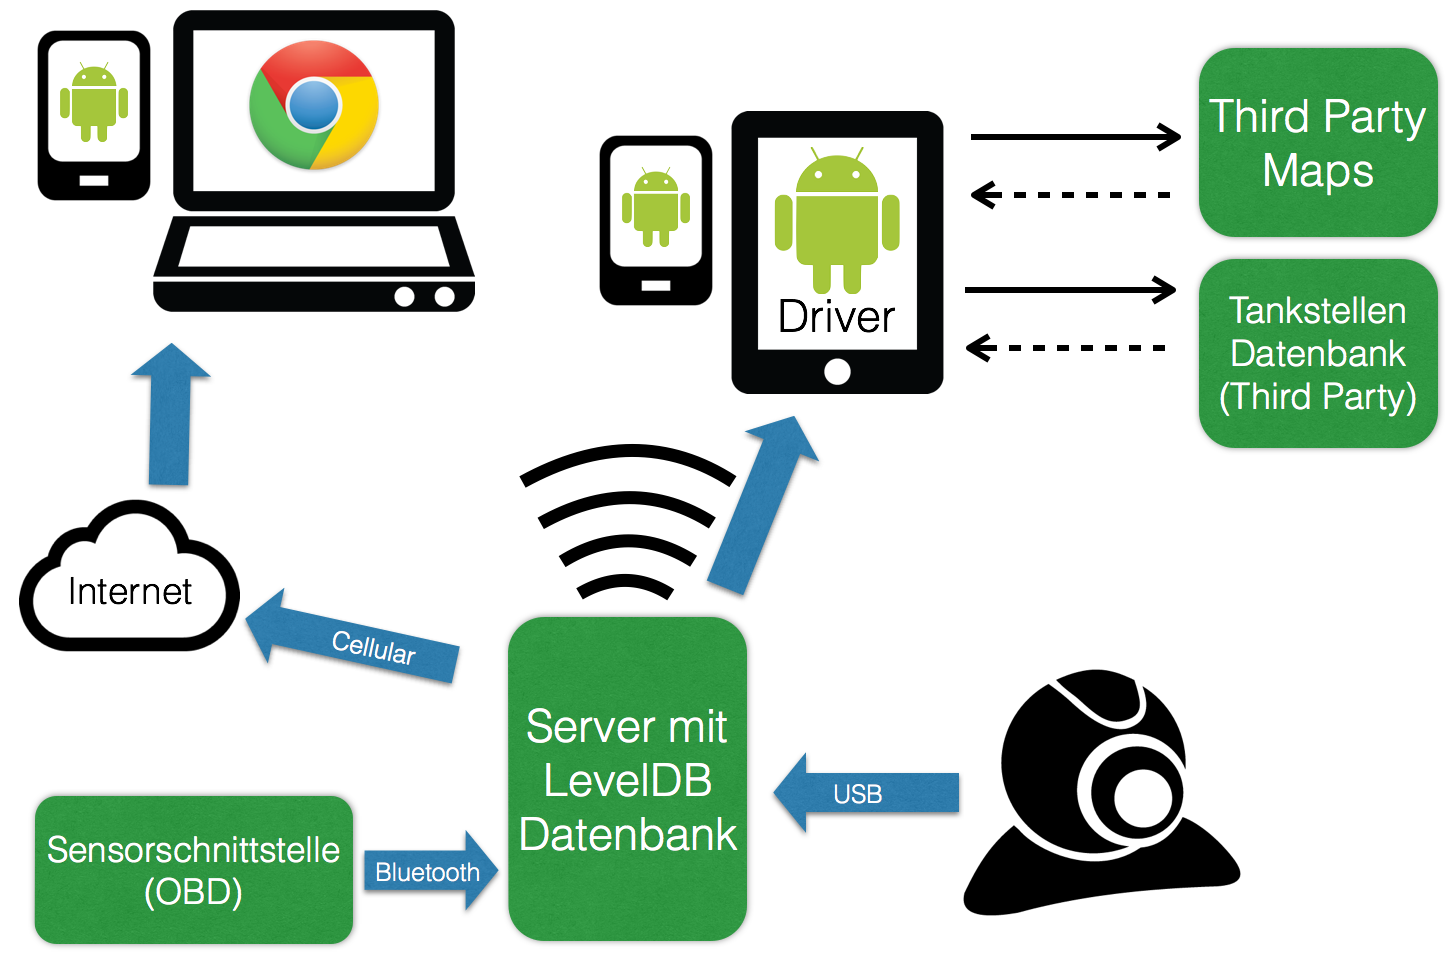
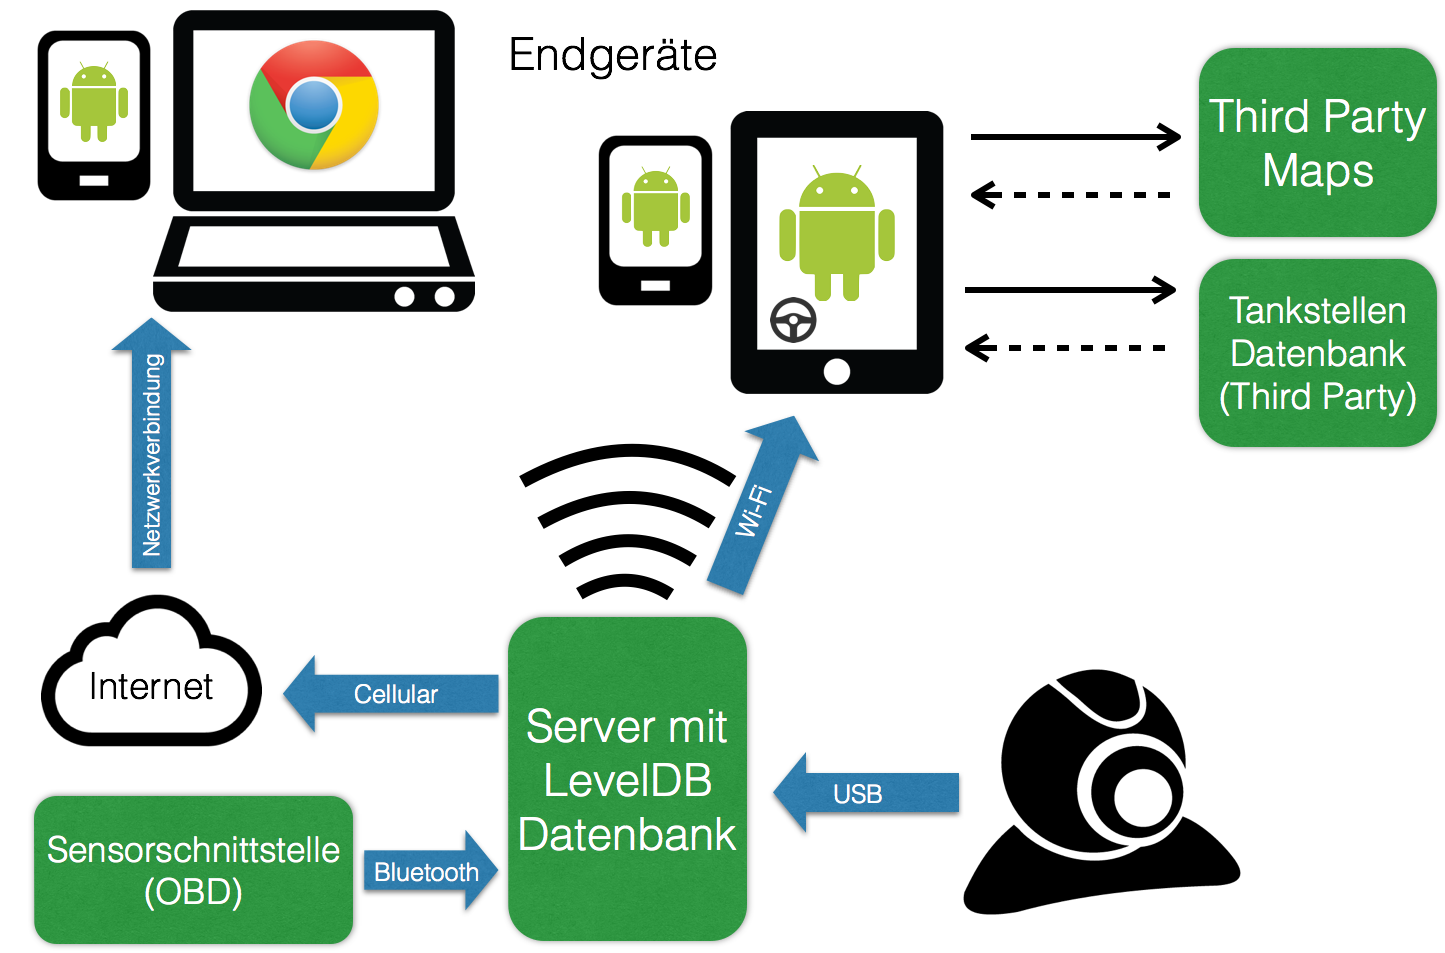
Systemmodell update

diff --git a/myDoc/ProduktEU.tex b/myDoc/ProduktEU.tex
@@ -122,7 +122,7 @@ Android Smartphone (min. 1 GHz und 1 GB RAM)
 \newpage
 \section{Systemarchitektur}
 
-Das System ist modular aufgebaut. Es gibt pro System genau einen Server. Endgeräte können eine Netzwerkverbindung mit dem Server herstellen. Dabei kann die Verbindung entweder direkt via Wi-Fi im Auto oder entfernt (~\ref{remote}) über das Internet hergestellt werden. (~\ref{firstcon}, ~\ref{connection}, ~\ref{driver1}, ~\ref{driver2}) Das soll in der Funktionalität keinen Unterschied machen. Diese Verbindung beruht auf WebRTC \footnote{http://www.webrtc.org} und soll den Datenkanal dieses Protokolls verwenden, um Sensordaten zu übertragen. Des Weiteren ist eine Rückfahrkamera per USB mit dem Server verbunden. Die Kamerabilder werden über den Media Kanal (WebRTC) auf das Endgerät übertragen.
+Das System ist modular aufgebaut. Es gibt pro System genau einen Server. Endgeräte können eine Netzwerkverbindung mit dem Server herstellen. Dabei kann die Verbindung entweder direkt via Wi-Fi im Auto oder entfernt (~\ref{remote}) über das Internet hergestellt werden. (~\ref{firstcon}, ~\ref{connection}) Das soll in der Funktionalität keinen Unterschied machen. Diese Verbindung beruht auf WebRTC \footnote{http://www.webrtc.org} und soll den Datenkanal dieses Protokolls verwenden, um Sensordaten zu übertragen. Des Weiteren ist eine Rückfahrkamera per USB mit dem Server verbunden. Die Kamerabilder werden über den Media Kanal (WebRTC) auf das Endgerät übertragen. Das mit dem Lenkrad markierte Endgerät stellt das Gerät des Fahrers da. Personenbezogene Daten werden nach Fahrer gespeichert. (~\ref{driver1}, ~\ref{driver2})
 
 \begin{figure}[H]
   	\begin{center}
